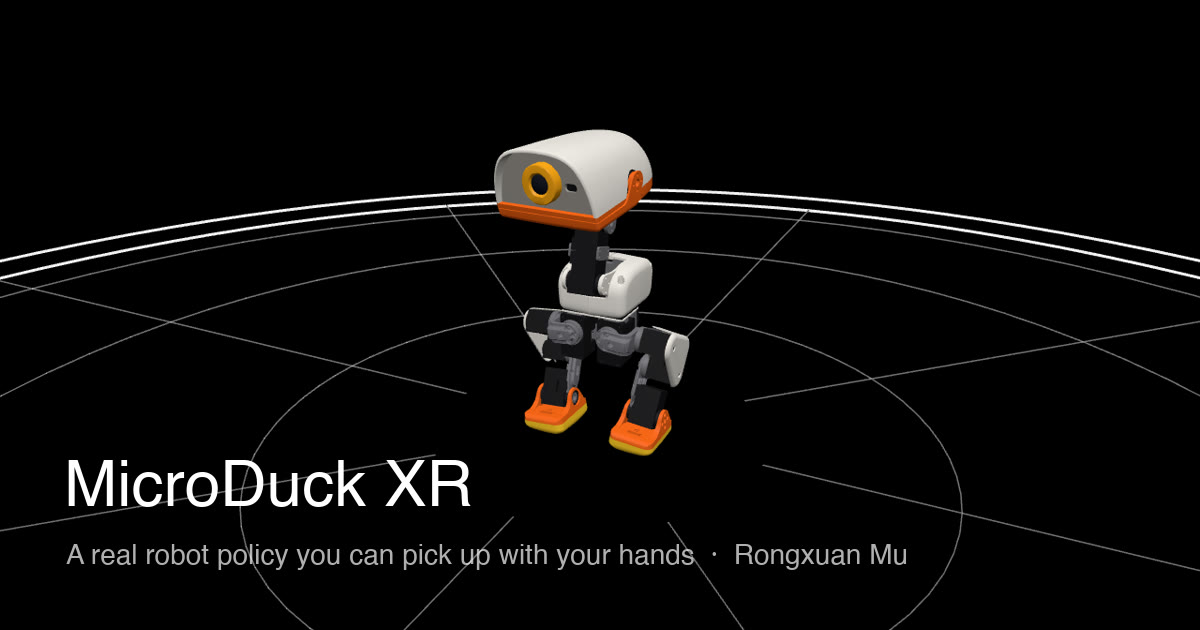
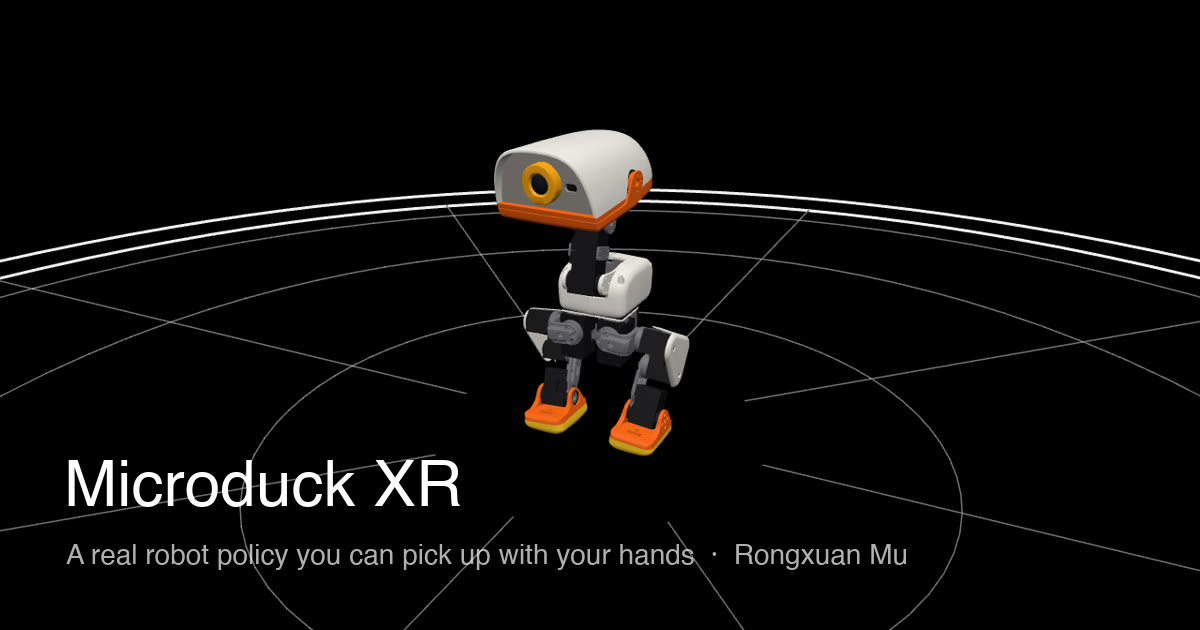
Spell Microduck the way Pollen Robotics does
Their product repo and simulator Space write "Microduck", so titles, page
text, the in-XR menus, the share card and file names follow suit
(Works/MicroduckXR.html and the MicroduckXR videos / poster).

Changed region(s): [[0.185, 0.7238, 0.4008, 0.8143]]

diff --git a/microduck-xr/index.html b/microduck-xr/index.html
@@ -1,19 +1,19 @@
 <meta charset="utf-8">
-<title>MicroDuck XR</title>
+<title>Microduck XR</title>
 <meta name="viewport" content="width=device-width, initial-scale=1">
 <link rel="icon" type="image/jpeg" href="https://rongxuanmu.github.io/Resources/common/Rongxuan.jpeg">
 <link rel="apple-touch-icon" href="https://rongxuanmu.github.io/Resources/common/Rongxuan.jpeg">
-<meta name="description" content="MicroDuck XR by Rongxuan Mu - Pollen Robotics' Microduck robot in WebXR. Its real walking policies run in MuJoCo in your browser; pick it up, send it walking, make it kick.">
+<meta name="description" content="Microduck XR by Rongxuan Mu - Pollen Robotics' Microduck robot in WebXR. Its real walking policies run in MuJoCo in your browser; pick it up, send it walking, make it kick.">
 <meta property="og:type" content="website">
-<meta property="og:title" content="MicroDuck XR - Rongxuan Mu">
+<meta property="og:title" content="Microduck XR - Rongxuan Mu">
 <meta property="og:description" content="A real robot policy you can pick up with your hands. Pollen Robotics' Microduck in WebXR, simulated live in the browser.">
 <meta property="og:url" content="https://rongxuanmu.github.io/microduck-xr/">
 <meta property="og:image" content="https://rongxuanmu.github.io/Resources/microduck/social-preview.jpg">
 <meta property="og:image:width" content="1200">
 <meta property="og:image:height" content="630">
-<meta property="og:image:alt" content="MicroDuck XR by Rongxuan Mu: the white and orange Microduck robot standing on a line-drawn stage.">
+<meta property="og:image:alt" content="Microduck XR by Rongxuan Mu: the white and orange Microduck robot standing on a line-drawn stage.">
 <meta name="twitter:card" content="summary_large_image">
-<!-- MicroDuck XR - drive the Pollen Robotics Microduck (real RL policies in MuJoCo WASM + ONNX Runtime Web)
+<!-- Microduck XR - drive the Pollen Robotics Microduck (real RL policies in MuJoCo WASM + ONNX Runtime Web)
   with hands, controllers or a mouse. Built on the VibeXR Interaction Framework v0.8.23.
   Robot: Pollen Robotics Microduck - pollen-robotics/microduck + microduck_rl (Apache-2.0). Model, visual mesh
   and trained policies load at runtime from the pollen-robotics/microduck-simulator Space.
@@ -157,7 +157,7 @@ html, body { margin: 0; height: 100%; background: #000000; color: #ffffff; font-
 <script>window.__HAND_URL = "https://cdn.jsdelivr.net/npm/@webxr-input-profiles/assets@1.0.20/dist/profiles/generic-hand/";</script>
 <div id="overlay">
   <div class="card">
-    <h1>MicroDuck XR</h1>
+    <h1>Microduck XR</h1>
     <p class="sub">The real Microduck walking policies in MuJoCo &middot; point, pinch &amp; grab to play &middot; built on the VibeXR interaction framework</p>
     <div class="row">
       <button id="enter-ar">Enter</button>
@@ -2485,7 +2485,7 @@ var WorldManager = class {
 };
 
 // src/worlds/microduck.js
-// MicroDuck XR - the real Pollen Robotics Microduck walking policies, running in the browser and
+// Microduck XR - the real Pollen Robotics Microduck walking policies, running in the browser and
 // controlled with hands, controllers or a mouse through the VibeXR interaction framework.
 //
 // Physics: MuJoCo WASM (@mujoco/mujoco) stepping the same MJCF the policies were trained on
@@ -2983,9 +2983,9 @@ var MdSound = class {
   }
 };
 var _mdS1 = new THREE6.Vector3(), _mdS2 = new THREE6.Vector3();
-var MicroDuck = {
+var Microduck = {
   id: "microduck",
-  title: "MicroDuck",
+  title: "Microduck",
   init(ctx) {
     const T = THREE6, { root, app } = ctx;
     this.ctx = ctx;
@@ -3039,7 +3039,7 @@ var MicroDuck = {
     mdLoadAssets((m) => this.status(m)).then((A) => token === this.token && this._startSim(A)).catch((e) => {
       console.error(e);
       if (token === this.token) this.status(`⚠ ${e.message}`);
-      app.error(`MicroDuck: ${e.message}`);
+      app.error(`Microduck: ${e.message}`);
     });
   },
   // - scene: the stage (a disc in MJCF frame), goal flag, ball, drag bar -
@@ -3212,7 +3212,7 @@ var MicroDuck = {
     // in XR the command panel is the hand menu's home page (palm up / controller B), with the framework's
     // menu as its Settings page; on desktop (no palm) it floats beside the stage
     const app = ctx.app, inMenu = this.inMenu = !!app.sessionMode;
-    const panel = this.panel = ctx.panel(inMenu ? "MicroDuck" : "MicroDuck · poke, pinch or ray", { w: 0.26, h: 0.24 });
+    const panel = this.panel = ctx.panel(inMenu ? "Microduck" : "Microduck · poke, pinch or ray", { w: 0.26, h: 0.24 });
     const b = (label, opts) => ctx.button(label, { w: 0.078, h: 0.026, fontSize: 26, ...opts });
     this.btn = {
       sit: b("Sit", { toggle: true, onClick: (v) => this.trigger(v ? "sit" : "stand") }),
@@ -3270,7 +3270,7 @@ var MicroDuck = {
     if (inMenu) {
       app.menu.addPage("duck", panel);
       const m = app.menuButtons;
-      this.menuBack = ctx.button("\u2039 MicroDuck", { w: 0.075, h: 0.026, fontSize: 26, onClick: () => app.menu.show("duck") });
+      this.menuBack = ctx.button("\u2039 Microduck", { w: 0.075, h: 0.026, fontSize: 26, onClick: () => app.menu.show("duck") });
       app.menu.setItems([this.menuBack, m.vst, m.gain, m.mesh, m.joints, m.ray, m.reset, m.clear, m.exit], app.opacitySlider);
     } else ctx.root.add(panel.root);
   },
@@ -4019,7 +4019,7 @@ var App = class {
     this._addSource(this.mouse);
     Interactable.onAny = (e) => this._onEvent(e);
     this._buildMenu();
-    this.worlds.register(MicroDuck);
+    this.worlds.register(Microduck);
     addEventListener("resize", () => {
       if (this.renderer.xr.isPresenting) return;
       this.camera.aspect = innerWidth / innerHeight;
@@ -4310,7 +4310,7 @@ var overlay = (() => {
 })();
 var app = new App();
 window.VXR = { app, THREE: THREE7, ICFG, VERSION, dev: { HandVisual, outlineMaterial } };
-document.getElementById("ver").textContent = `MicroDuck XR \u00b7 VibeXR v${VERSION}`;
+document.getElementById("ver").textContent = `Microduck XR \u00b7 VibeXR v${VERSION}`;
 await app.worlds.load("microduck");
 var arBtn = document.getElementById("enter-ar");
 arBtn.onclick = () => app.enterXR("ar");

diff --git a/Works/MicroduckXR.html b/Works/MicroduckXR.html
@@ -3,18 +3,18 @@
 <head>
     <meta charset="UTF-8">
     <meta name="viewport" content="width=device-width, initial-scale=1.0">
-    <title>MicroDuck XR - Rongxuan Portfolio</title>
+    <title>Microduck XR - Rongxuan Portfolio</title>
     <link rel="stylesheet" href="../project-styles.css?v=3">
     <link rel="stylesheet" href="../styles.css?v=26">
     <link rel="stylesheet" href="https://cdnjs.cloudflare.com/ajax/libs/font-awesome/6.0.0-beta3/css/all.min.css">
     <link rel="icon" href="../Resources/common/Rongxuan.jpeg" type="image/x-icon">
     <script src="../darkmode.js?v=4"></script>
     <script src="../metaballs.js?v=23" defer></script>
-    <meta name="description" content="MicroDuck XR puts Pollen Robotics' open-source Microduck robot in your room: its real walking policies run in MuJoCo in the browser, and you play with it by hand in WebXR.">
+    <meta name="description" content="Microduck XR puts Pollen Robotics' open-source Microduck robot in your room: its real walking policies run in MuJoCo in the browser, and you play with it by hand in WebXR.">
     <meta property="og:type" content="website">
-    <meta property="og:title" content="MicroDuck XR - Rongxuan Mu">
+    <meta property="og:title" content="Microduck XR - Rongxuan Mu">
     <meta property="og:description" content="A real robot policy you can pick up with your hands. Pollen Robotics' Microduck in WebXR, simulated live in the browser.">
-    <meta property="og:url" content="https://rongxuanmu.github.io/Works/MicroDuckXR.html">
+    <meta property="og:url" content="https://rongxuanmu.github.io/Works/MicroduckXR.html">
     <meta property="og:image" content="https://rongxuanmu.github.io/Resources/microduck/social-preview.jpg">
     <meta property="og:image:width" content="1200">
     <meta property="og:image:height" content="630">
@@ -127,8 +127,8 @@
 
     <header>
         <div class="image-container">
-            <video autoplay muted loop playsinline preload="metadata" poster="../Resources/microduck/MicroDuckXR.jpg">
-                <source src="../Resources/microduck/MicroDuckXR.mp4" type="video/mp4">
+            <video autoplay muted loop playsinline preload="metadata" poster="../Resources/microduck/MicroduckXR.jpg">
+                <source src="../Resources/microduck/MicroduckXR.mp4" type="video/mp4">
                 Your browser does not support the video tag.
             </video>
         </div>
@@ -136,10 +136,10 @@
 
     <main>
         <section id="overview">
-            <h1>MicroDuck XR</h1>
+            <h1>Microduck XR</h1>
             <h2>A real robot policy you can pick up with your hands</h2>
             <p>
-                <strong>MicroDuck XR</strong> brings <a href="https://github.com/pollen-robotics/microduck" target="_blank" rel="noopener noreferrer">Microduck</a>,
+                <strong>Microduck XR</strong> brings <a href="https://github.com/pollen-robotics/microduck" target="_blank" rel="noopener noreferrer">Microduck</a>,
                 Pollen Robotics' open-source bipedal duck robot, into your room. It is not an animation: the duck's
                 trained reinforcement-learning policies run in the browser against a MuJoCo physics model of the
                 robot, 50 times a second, exactly as they would drive the real hardware.
@@ -154,13 +154,13 @@
 
         <section id="play">
             <h2>Play</h2>
-            <a class="md-launch" href="../microduck-xr/" target="_blank" rel="noopener noreferrer" aria-label="Open MicroDuck XR">
-                <video autoplay muted loop playsinline preload="metadata" poster="../Resources/microduck/MicroDuckXR.jpg">
-                    <source src="../Resources/microduck/MicroDuckXR.mp4" type="video/mp4">
+            <a class="md-launch" href="../microduck-xr/" target="_blank" rel="noopener noreferrer" aria-label="Open Microduck XR">
+                <video autoplay muted loop playsinline preload="metadata" poster="../Resources/microduck/MicroduckXR.jpg">
+                    <source src="../Resources/microduck/MicroduckXR.mp4" type="video/mp4">
                     Your browser does not support the video tag.
                 </video>
                 <div class="md-launch-meta">
-                    <h3>MicroDuck XR</h3>
+                    <h3>Microduck XR</h3>
                     <p>
                         Open it in a Quest, Galaxy XR or Vision Pro browser and tap Enter for passthrough. On desktop
                         the duck idles on the landing screen: click the floor to walk it, drag it to pick it up,

diff --git a/microduck-xr/src/microduck.js b/microduck-xr/src/microduck.js
@@ -1,5 +1,5 @@
 // src/worlds/microduck.js
-// MicroDuck XR - the real Pollen Robotics Microduck walking policies, running in the browser and
+// Microduck XR - the real Pollen Robotics Microduck walking policies, running in the browser and
 // controlled with hands, controllers or a mouse through the VibeXR interaction framework.
 //
 // Physics: MuJoCo WASM (@mujoco/mujoco) stepping the same MJCF the policies were trained on
@@ -497,9 +497,9 @@ var MdSound = class {
   }
 };
 var _mdS1 = new THREE6.Vector3(), _mdS2 = new THREE6.Vector3();
-var MicroDuck = {
+var Microduck = {
   id: "microduck",
-  title: "MicroDuck",
+  title: "Microduck",
   init(ctx) {
     const T = THREE6, { root, app } = ctx;
     this.ctx = ctx;
@@ -553,7 +553,7 @@ var MicroDuck = {
     mdLoadAssets((m) => this.status(m)).then((A) => token === this.token && this._startSim(A)).catch((e) => {
       console.error(e);
       if (token === this.token) this.status(`⚠ ${e.message}`);
-      app.error(`MicroDuck: ${e.message}`);
+      app.error(`Microduck: ${e.message}`);
     });
   },
   // - scene: the stage (a disc in MJCF frame), goal flag, ball, drag bar -
@@ -726,7 +726,7 @@ var MicroDuck = {
     // in XR the command panel is the hand menu's home page (palm up / controller B), with the framework's
     // menu as its Settings page; on desktop (no palm) it floats beside the stage
     const app = ctx.app, inMenu = this.inMenu = !!app.sessionMode;
-    const panel = this.panel = ctx.panel(inMenu ? "MicroDuck" : "MicroDuck · poke, pinch or ray", { w: 0.26, h: 0.24 });
+    const panel = this.panel = ctx.panel(inMenu ? "Microduck" : "Microduck · poke, pinch or ray", { w: 0.26, h: 0.24 });
     const b = (label, opts) => ctx.button(label, { w: 0.078, h: 0.026, fontSize: 26, ...opts });
     this.btn = {
       sit: b("Sit", { toggle: true, onClick: (v) => this.trigger(v ? "sit" : "stand") }),
@@ -784,7 +784,7 @@ var MicroDuck = {
     if (inMenu) {
       app.menu.addPage("duck", panel);
       const m = app.menuButtons;
-      this.menuBack = ctx.button("\u2039 MicroDuck", { w: 0.075, h: 0.026, fontSize: 26, onClick: () => app.menu.show("duck") });
+      this.menuBack = ctx.button("\u2039 Microduck", { w: 0.075, h: 0.026, fontSize: 26, onClick: () => app.menu.show("duck") });
       app.menu.setItems([this.menuBack, m.vst, m.gain, m.mesh, m.joints, m.ray, m.reset, m.clear, m.exit], app.opacitySlider);
     } else ctx.root.add(panel.root);
   },

diff --git a/index.html b/index.html
@@ -314,13 +314,13 @@
                     <p>2022-2025</p>
                 </div>
             </a>
-            <a href="Works/MicroDuckXR.html" class="project">
+            <a href="Works/MicroduckXR.html" class="project">
                 <video autoplay loop muted playsinline style="width: 100%; height: 100%;">
-                    <source src="Resources/homepage-compressed/MicroDuckXR.mp4" type="video/mp4">
+                    <source src="Resources/homepage-compressed/MicroduckXR.mp4" type="video/mp4">
                     Your browser does not support the video tag.
                 </video>
                 <div class="overlay">
-                    <h3>MicroDuck XR</h3>
+                    <h3>Microduck XR</h3>
                     <p>Hands-on Robot RL in WebXR</p>
                 </div>
             </a>

diff --git a/microduck-xr/build.py b/microduck-xr/build.py
@@ -1,5 +1,5 @@
-"""Build MicroDuck XR: the VibeXR Interaction Framework single-file build with its demo playground
-world swapped for the MicroDuck world (src/microduck.js). Output: index.html, a single file that can be
+"""Build Microduck XR: the VibeXR Interaction Framework single-file build with its demo playground
+world swapped for the Microduck world (src/microduck.js). Output: index.html, a single file that can be
 pasted as-is into a CodePen HTML panel."""
 from pathlib import Path
 import re
@@ -18,7 +18,7 @@ def swap(a, b):
 a = s.index('// src/worlds/playground.js')
 b = s.index('// src/main.js\nvar VERSION')
 s = s[:a] + (P / 'src' / 'microduck.js').read_text().rstrip() + '\n\n' + s[b:]
-swap('this.worlds.register(Playground);', 'this.worlds.register(MicroDuck);')
+swap('this.worlds.register(Playground);', 'this.worlds.register(Microduck);')
 swap('await app.worlds.load("playground");', 'await app.worlds.load("microduck");')
 
 # framework patches (kept small and generic; each is a behaviour fix / extension of the framework, not duck code)
@@ -64,12 +64,12 @@ swap('if (!ar && vr) arBtn.textContent = "Enter (VR only)", arBtn.disabled = fal
      'if (!ar && vr) arBtn.onclick = () => app.enterXR("vr");')
 # page chrome
 swap('<!-- VibeXR Interaction Framework v0.8.8 - single-file build',
-     '<!-- MicroDuck XR - drive the Pollen Robotics Microduck (real RL policies in MuJoCo WASM + ONNX Runtime Web)\n'
+     '<!-- Microduck XR - drive the Pollen Robotics Microduck (real RL policies in MuJoCo WASM + ONNX Runtime Web)\n'
      '  with hands, controllers or a mouse. Built on the VibeXR Interaction Framework v0.8.23.\n'
      '  Robot: Pollen Robotics Microduck - pollen-robotics/microduck + microduck_rl (Apache-2.0). Model, visual mesh\n'
      '  and trained policies load at runtime from the pollen-robotics/microduck-simulator Space.\n\n'
      '  VibeXR Interaction Framework v0.8.8 - single-file build')
-swap('<h1>VibeXR</h1>', '<h1>MicroDuck XR</h1>')
+swap('<h1>VibeXR</h1>', '<h1>Microduck XR</h1>')
 # landing: the card sits left of the duck in landscape, at the bottom in portrait, compact on short screens;
 # the world frames the duck in whatever space is left
 swap('@media (max-width: 600px) { #overlay { align-items: flex-end; padding-bottom: 16px; } }',
@@ -84,26 +84,26 @@ swap('<p class="sub">Interaction framework &middot; see-through by default &midd
 swap('"WebXR not available - desktop preview (left-click = ray pinch, wheel while dragging = push / pull, right-drag = orbit)"',
      '"Desktop preview: click the floor to walk, drag the duck, WASD drive, Q quack, right-drag orbit"')
 swap('document.getElementById("ver").textContent = `v${VERSION}`;',
-     'document.getElementById("ver").textContent = `MicroDuck XR \\u00b7 VibeXR v${VERSION}`;')
+     'document.getElementById("ver").textContent = `Microduck XR \\u00b7 VibeXR v${VERSION}`;')
 swap('this.camera.position.set(0, 1.95, 0.7);', 'this.camera.position.set(0, 1.75, 0.55);')
 swap('this.controls.target.set(0, 1.6, -0.5);', 'this.controls.target.set(0, 0.35, -1.3);')
 # head: portrait favicon (like the rest of the portfolio) + social preview card. Absolute URLs, so they also
 # resolve when the file is pasted into CodePen.
 SITE = 'https://rongxuanmu.github.io'
 head = f"""<meta charset="utf-8">
-<title>MicroDuck XR</title>
+<title>Microduck XR</title>
 <meta name="viewport" content="width=device-width, initial-scale=1">
 <link rel="icon" type="image/jpeg" href="{SITE}/Resources/common/Rongxuan.jpeg">
 <link rel="apple-touch-icon" href="{SITE}/Resources/common/Rongxuan.jpeg">
-<meta name="description" content="MicroDuck XR by Rongxuan Mu - Pollen Robotics' Microduck robot in WebXR. Its real walking policies run in MuJoCo in your browser; pick it up, send it walking, make it kick.">
+<meta name="description" content="Microduck XR by Rongxuan Mu - Pollen Robotics' Microduck robot in WebXR. Its real walking policies run in MuJoCo in your browser; pick it up, send it walking, make it kick.">
 <meta property="og:type" content="website">
-<meta property="og:title" content="MicroDuck XR - Rongxuan Mu">
+<meta property="og:title" content="Microduck XR - Rongxuan Mu">
 <meta property="og:description" content="A real robot policy you can pick up with your hands. Pollen Robotics' Microduck in WebXR, simulated live in the browser.">
 <meta property="og:url" content="{SITE}/microduck-xr/">
 <meta property="og:image" content="{SITE}/Resources/microduck/social-preview.jpg">
 <meta property="og:image:width" content="1200">
 <meta property="og:image:height" content="630">
-<meta property="og:image:alt" content="MicroDuck XR by Rongxuan Mu: the white and orange Microduck robot standing on a line-drawn stage.">
+<meta property="og:image:alt" content="Microduck XR by Rongxuan Mu: the white and orange Microduck robot standing on a line-drawn stage.">
 <meta name="twitter:card" content="summary_large_image">
 """
 s = head + s
